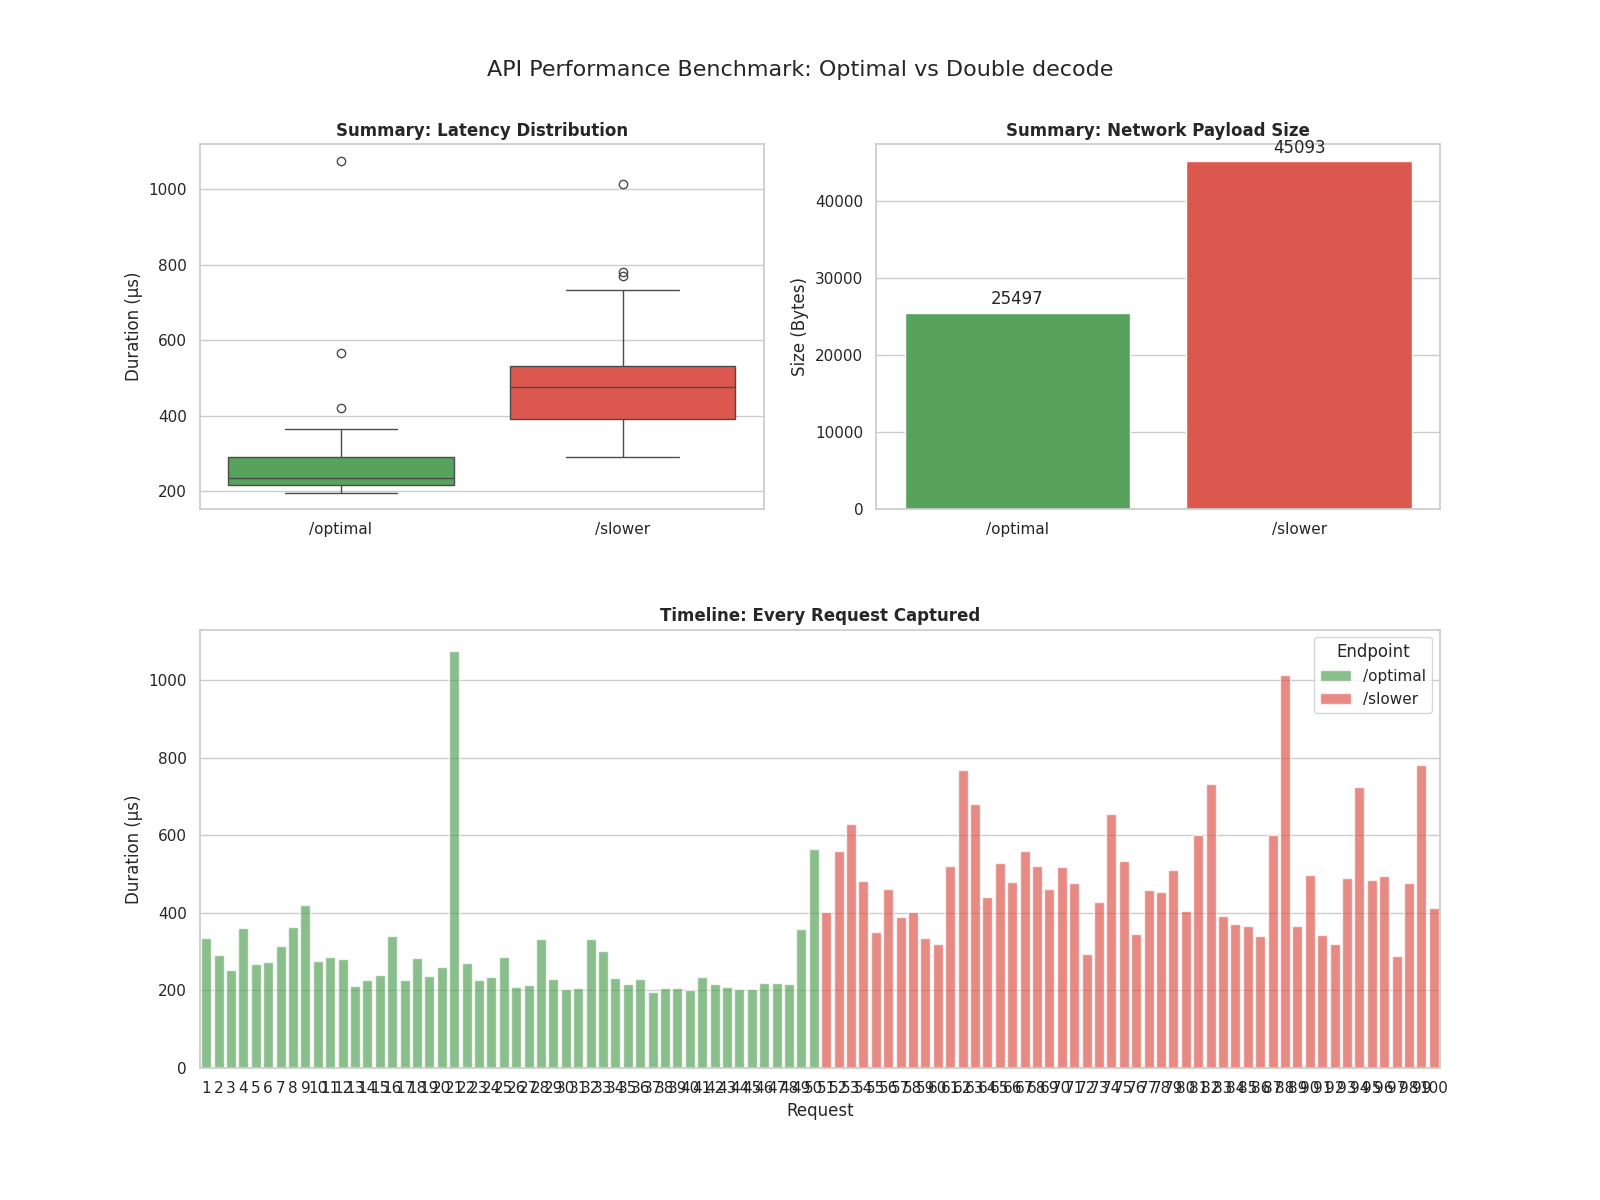
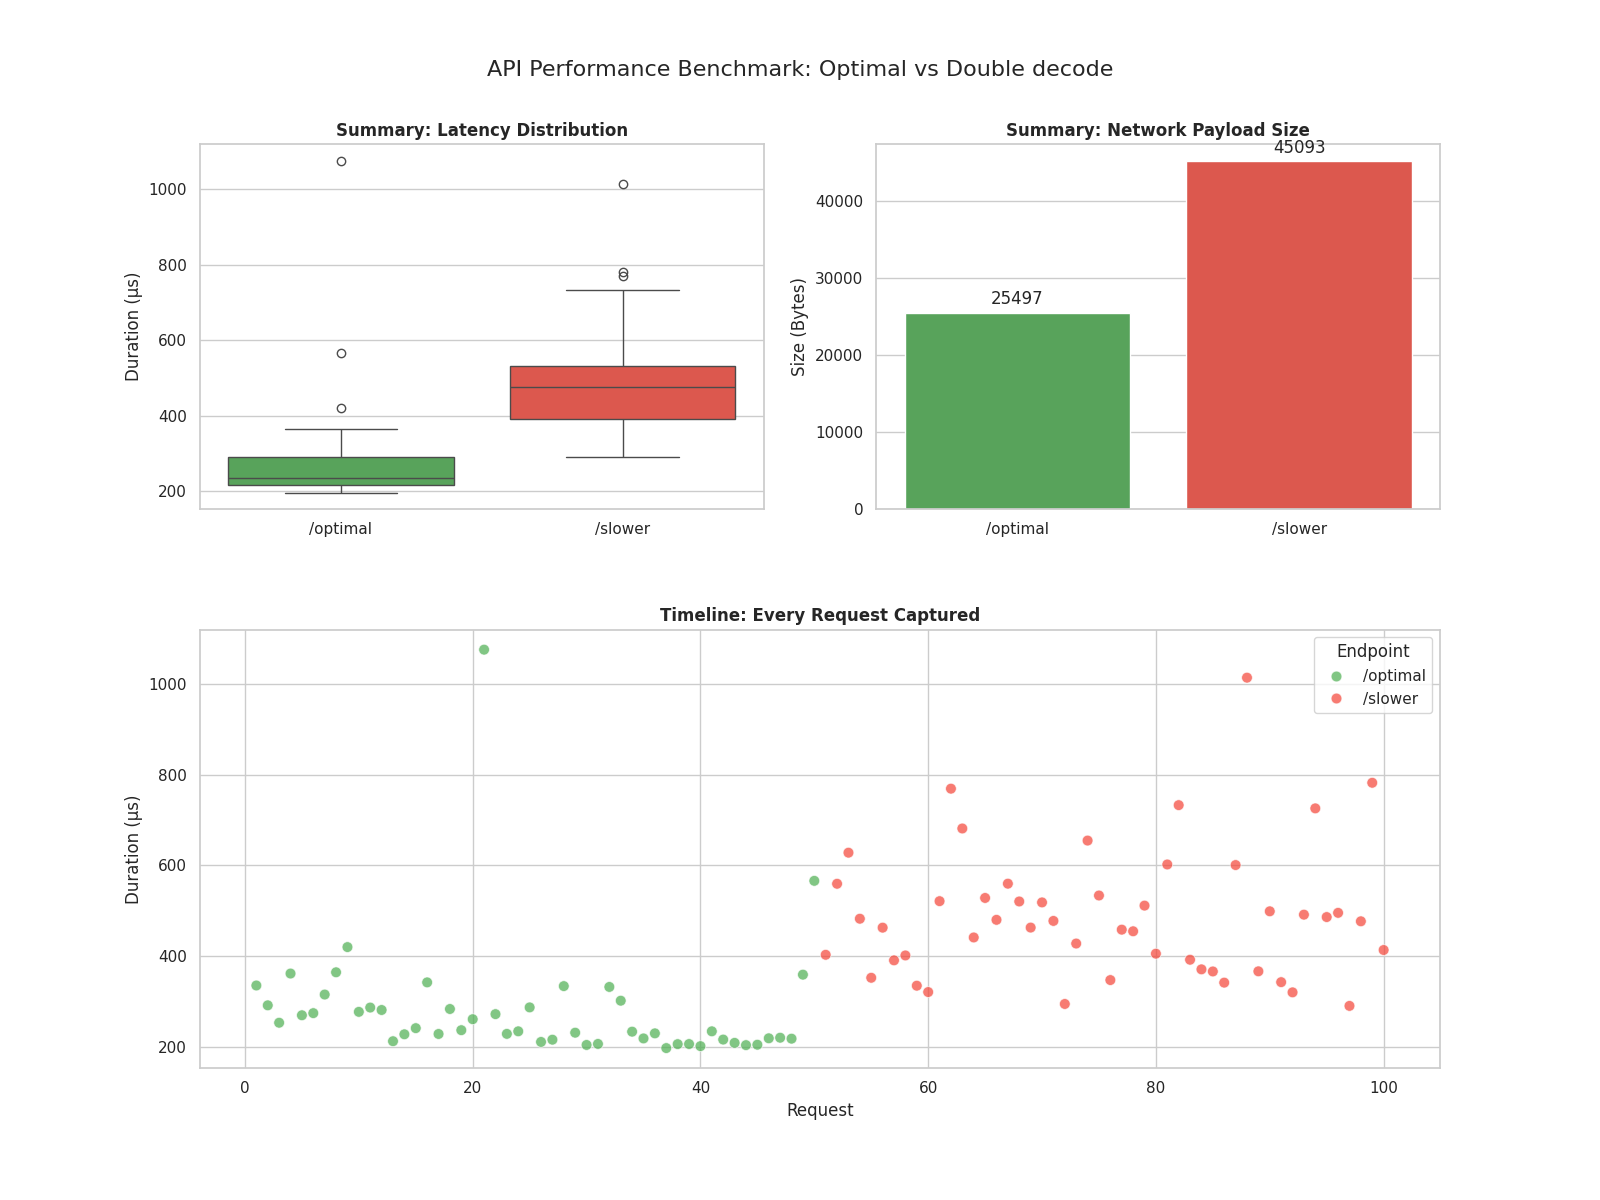
fix: bar plot -> scatter plot

Changed region(s): [[0.0938, 0.5242, 0.9062, 0.925], [0.0938, 0.6167, 0.125, 0.6475], [0.0938, 0.555, 0.125, 0.5858]]

diff --git a/statadistics.py b/statadistics.py
@@ -61,14 +61,14 @@ def plot_network_usage(df, axes):
 def plot_request_timeline(df, axes):
     """Draws a Scatter Plot showing every single request over time."""
 
-    sns.barplot(
+    sns.scatterplot(
         data=df,
         x='request_id',
         y='duration_us',
         hue='endpoint',
         #style='endpoint',
         palette=COLORS,
-        #s=60,
+        s=60,
         alpha=0.7,
         ax=axes
     )
